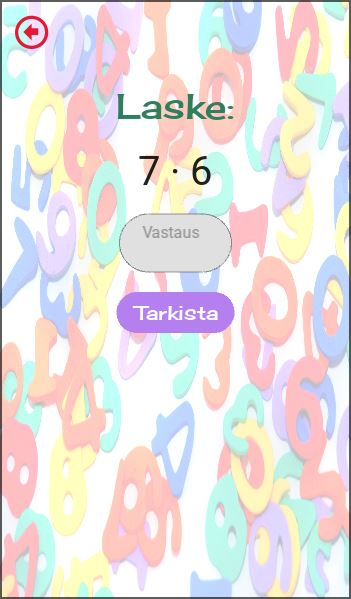
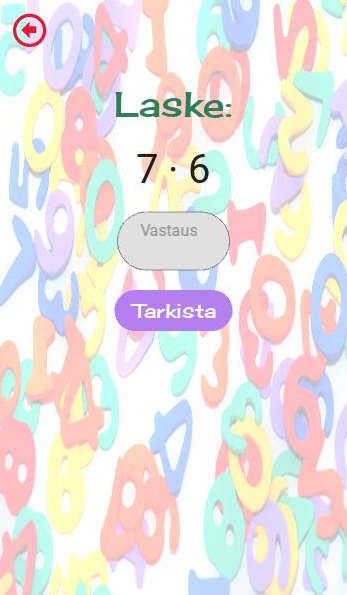
Edited MatikkaPeli Images

diff --git a/src/components/project_modals/modals.css b/src/components/project_modals/modals.css
@@ -25,10 +25,10 @@ body {
 
 .project_images {
     max-height: 20rem;
-    padding-inline: 5%;
-    margin: 2vw;
+    margin-inline: 15%;
+    margin-left: 5vw;
     max-width: 95%;
-    border-radius: 8px;
+    border-radius: 12px;
 }
 
 ul {

diff --git a/src/components/projectCards.css b/src/components/projectCards.css
@@ -36,8 +36,8 @@
 
   .topImage {
     max-width: 150px;
-    padding: 1vw;
-    padding-top: 5vw;
+    margin: 2vw;
+    margin-top: 5vw;
   }
 }
 
